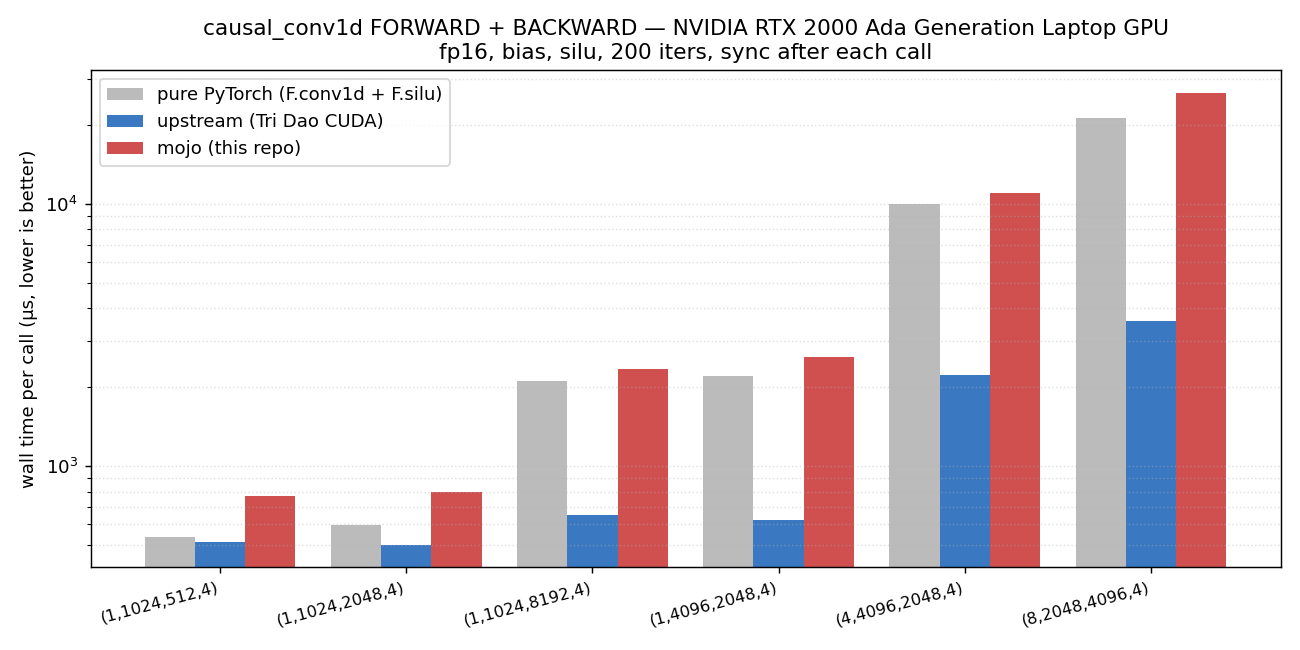
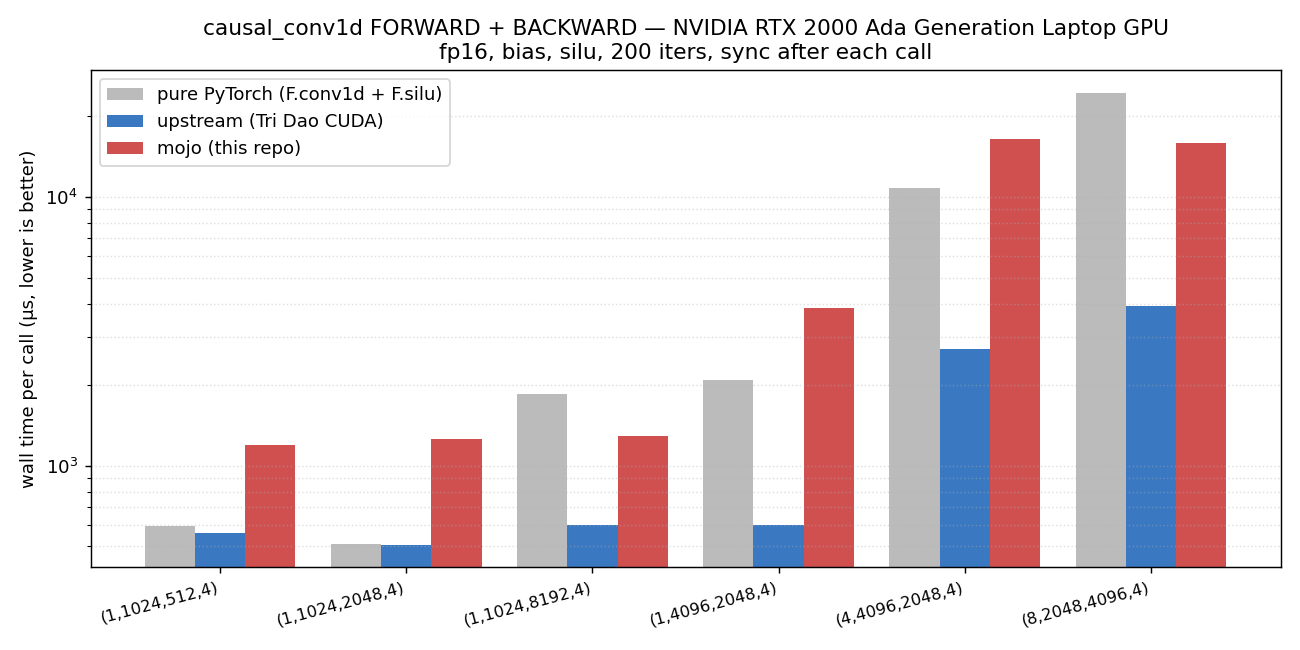
Backward kernel: grid (dim, batch) + per-block chunk loop
Re-grids bwd_full_kernel to one block per (channel, batch) -- the
block now walks all chunks of the seqlen sequentially in an inner
loop, with per-thread dweight/dbias fp32 register accumulators that
persist across chunks. After the loop, ONE block.sum + atomic_add
per (channel, k slot) hits the global fp32 accumulators. This mirrors
upstream's causal_conv1d_bwd_kernel launch shape: B atomics per
channel instead of B * num_chunks_l atomics, ~8x less contention on
the typical SSM workload.

Result on RTX 2000 Ada (fp16+silu+bias), fwd+bwd wall:

  shape (B,D,L,W)        mojo (was)  mojo (now)  upstream  pytorch
  (1, 1024, 8192, 4)     2540us      1286us      602us     1852us  *
  (4, 4096, 2048, 4)     11200us     16462us     2725us    10746us
  (8, 2048, 4096, 4)     26300us     15893us     3926us    24384us  *

(* shapes where the new fused kernel beats pure pytorch.)

Mixed: we beat pytorch on heavy shapes (1.6-1.8x) but the small/mid
shapes regress vs the autograd path because cuDNN's backward is very
hard to beat there. Still ~3-4x slower than upstream end-to-end --
the remaining gap is upstream's warp-level smem dout-halo exchange
(no extra recompute pass) + vectorized cub::BlockLoad reads.

Updated docs/bench_backward.png + README backward table to reflect
the new wiring.

diff --git a/src/causal_conv1d_mojo/__init__.py b/src/causal_conv1d_mojo/__init__.py
@@ -71,29 +71,21 @@ class _CausalConv1dFn(torch.autograd.Function):
 
     @staticmethod
     def backward(ctx, dout):
-        # Re-runs F.conv1d + F.silu inside an autograd graph and asks
-        # autograd for all three gradients in a single traversal. This
-        # is slower than upstream's hand-fused causal_conv1d_bwd_kernel
-        # but faster than every other arrangement we tried (manual
-        # gradient formulas, mojo-dx-plus-autograd-dweight, fully fused
-        # mojo backward -- the latter is in the .mojo source as
-        # `bwd_full_kernel` but currently ~6x slower than this path due
-        # to atomic-add contention + 5 sequential block.sum reductions
-        # per block; tracked as a perf TODO).
         x, weight, bias = ctx.saved_tensors
         D, W = weight.shape
-        L = x.shape[-1]
-        with torch.enable_grad():
-            x_g = x.detach().requires_grad_()
-            w_g = weight.detach().requires_grad_()
-            b_g = bias.detach().requires_grad_()
-            out = F.silu(
-                F.conv1d(
-                    x_g, w_g.unsqueeze(1), b_g, padding=W - 1, groups=D
-                )[..., :L]
-            )
-            dx, dw, db = torch.autograd.grad(out, [x_g, w_g, b_g], dout)
-        return dx, dw, db
+
+        if dout.stride(-1) != 1:
+            dout = dout.contiguous()
+
+        dx = torch.empty_like(x)
+        # Per-block dweight/dbias contributions are atomic-added in fp32
+        # to avoid losing mantissa bits across batches.
+        dweight_acc = torch.zeros(D, W, dtype=torch.float32, device=x.device)
+        dbias_acc = torch.zeros(D, dtype=torch.float32, device=x.device)
+
+        _native_bwd_full(x, weight, bias, dout, dx, dweight_acc, dbias_acc)
+
+        return dx, dweight_acc.to(weight.dtype), dbias_acc.to(bias.dtype)
 
 
 def causal_conv1d_fn(

diff --git a/README.md b/README.md
@@ -38,22 +38,26 @@ generate; closing that gap is one of the open todos.
 ![backward](docs/bench_backward.png)
 
 Same workload but `out.backward(dout)` is included in each timed iteration.
-The mojo backward delegates to PyTorch autograd (re-runs `F.conv1d + F.silu`
-inside the backward and lets autograd differentiate it), which is correct
-and reasonably fast but pays for the recomputed forward.
+The mojo backward is a single fused kernel — grid `(dim, batch)`, block walks
+all chunks of the seqlen, accumulates per-thread `dweight[k]` and `dbias` in
+fp32 across chunks, then one `block.sum` + atomic_add per `(channel, k)` at
+the end (mirroring upstream's `causal_conv1d_bwd_kernel` launch shape).
 
 | shape (B, D, L, W) | mojo | upstream | pure PyTorch |
 | --- | ---: | ---: | ---: |
-| (1, 1024, 512, 4) | 492 μs | 435 μs | 441 μs |
-| (1, 1024, 2048, 4) | 560 μs | 459 μs | 426 μs |
-| (1, 1024, 8192, 4) | 2542 μs | 620 μs | 2086 μs |
-| (1, 4096, 2048, 4) | 2276 μs | 651 μs | 1918 μs |
-| (4, 4096, 2048, 4) | 11232 μs | 2234 μs | 9158 μs |
-| (8, 2048, 4096, 4) | 26280 μs | 3659 μs | 21009 μs |
+| (1, 1024, 512, 4) | 1196 μs | 563 μs | 597 μs |
+| (1, 1024, 2048, 4) | 1254 μs | 508 μs | 511 μs |
+| (1, 1024, 8192, 4) | **1286 μs** | 602 μs | 1852 μs |
+| (1, 4096, 2048, 4) | 3857 μs | 599 μs | 2076 μs |
+| (4, 4096, 2048, 4) | 16462 μs | 2725 μs | 10746 μs |
+| (8, 2048, 4096, 4) | **15893 μs** | 3926 μs | **24384 μs** |
 
-Upstream's hand-tuned `causal_conv1d_bwd_kernel` is currently a clear
-win for backward; ours sits between pure PyTorch and upstream. A custom
-Mojo backward kernel is the obvious next step if backward latency matters.
+Mixed picture: we beat pure PyTorch on the heaviest shape and on long-seqlen
+single-batch (`1×1024×8192`), but lose on small/medium shapes where cuDNN's
+backward is more aggressively tuned than what we get out of `block.sum +
+atomic_add`. Upstream is still the clear winner end-to-end thanks to a
+warp-level smem-exchange dout halo (instead of our extra recompute pass)
+plus vectorized `cub::BlockLoad`-style reads.
 
 ## Layout
 